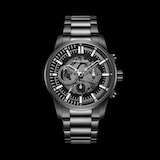
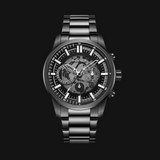
update

Changed region(s): [[0.25, 0.0625, 0.7812, 0.9062], [0.375, 0.875, 0.4062, 0.9062]]

diff --git a/src/partials/sale.html b/src/partials/sale.html
@@ -10,11 +10,11 @@
                     <li class="sale-gallery-item">
                         <!-- <img class="sale-img" src="../img/sale/mob/Watch.png" alt="clock in front"> -->
                         <picture class="sale-first-img">
-                            <source srcset="../img/sale/tab/clock1-tab-new.jpg 1x, ../img/sale/tab/clock1-tab2x.jpeg 2x"
+                            <source srcset="../img/sale/tab-desk/clock1.jpg 1x, ../img/sale/tab-desk/clock1-2x.jpg 2x"
                                 media="(min-width: 1280px)" />
-                            <source srcset="../img/sale/tab/clock1-tab-new.jpg 1x, ../img/sale/tab/clock1-tab2x.jpeg 2x"
+                            <source srcset="../img/sale/tab-desk/clock1.jpg 1x, ../img/sale/tab-desk/clock1-2x.jpg 2x"
                                 media="(min-width: 768px)" />
-                            <source srcset="../img/sale/mob/clock1-mob-new.jpg 1x, ../img/sale/mob/clock1-mob2x.jpeg 2x"
+                            <source srcset="../img/sale/mob/clock1-mob.jpeg 1x, ../img/sale/mob/clock1-mob2x.jpeg 2x"
                                 media="(min-width: 375px)" />
                             <img class="sale-img" src="../img/sale/mob/clock1-mob-new.jpg" alt="clock in front" >
                         </picture>
@@ -22,9 +22,9 @@
                     <li class="sale-gallery-item">
                         <!-- <img class="sale-img" src="../img/sale/mob/clock2-mob.png" alt="clock from the side"> -->
                         <picture>
-                            <source srcset="../img/sale/desk/clock2.jpeg 1x, ../img/sale/desk/clock2-2x.jpeg 2x"
+                            <source srcset="../img/sale/tab-desk/clock2.jpeg 1x, ../img/sale/tab-desk/clock2-2x.jpeg 2x"
                                 media="(min-width: 1280px)" />
-                            <source srcset="../img/sale/tab/clock2-tab.jpeg 1x, ../img/sale/tab/clock2-tab2x.jpeg 2x"
+                            <source srcset="../img/sale/tab-desk/clock2.jpeg 1x, ../img/sale/tab-desk/clock2-2x.jpeg 2x"
                                 media="(min-width: 768px)" />
                             <source srcset="../img/sale/mob/clock2-mob.jpeg 1x, ../img/sale/mob/clock2-mob2x.jpeg 2x"
                                 media="(min-width: 375px)" />
@@ -34,9 +34,9 @@
                     <li class="sale-gallery-item">
                         <!-- <img class="sale-img" src="../img/sale/mob/clock3-mob.png" alt="clock behind"> -->
                         <picture>
-                            <source srcset="../img/sale/desk/clock3.jpeg 1x, ../img/sale/desk/clock3-2x.jpeg 2x"
+                            <source srcset="../img/sale/tab-desk/clock3.jpeg 1x, ../img/sale/tab-desk/clock3-2x.jpeg 2x"
                                 media="(min-width: 1280px)" />
-                            <source srcset="../img/sale/tab/clock3-tab.jpeg 1x, ../img/sale/tab/clock3-tab2x.jpeg 2x"
+                            <source srcset="../img/sale/tab-desk/clock3.jpeg 1x, ../img/sale/tab-desk/clock3-2x.jpeg 2x"
                                 media="(min-width: 768px)" />
                             <source srcset="../img/sale/mob/clock3-mob.jpeg 1x, ../img/sale/mob/clock3-mob2x.jpeg 2x"
                                 media="(min-width: 375px)" />
@@ -46,9 +46,9 @@
                     <li class="sale-gallery-item">
                         <!-- <img class="sale-img" src="../img/sale/mob/clock4-mob.png" alt="clock face"> -->
                         <picture>
-                            <source srcset="../img/sale/desk/clock4.jpeg 1x, ../img/sale/desk/clock4-2x.jpeg 2x"
+                            <source srcset="../img/sale/tab-desk/clock4.jpeg 1x, ../img/sale/tab-desk/clock4-2x.jpeg 2x"
                                 media="(min-width: 1280px)" />
-                            <source srcset="../img/sale/tab/clock4-tab.jpeg 1x, ../img/sale/tab/clock4-tab2x.jpeg 2x"
+                            <source srcset="../img/sale/tab-desk/clock4.jpeg 1x, ../img/sale/tab-desk/clock4-2x.jpeg 2x"
                                 media="(min-width: 768px)" />
                             <source srcset="../img/sale/mob/clock4-mob.jpeg 1x, ../img/sale/mob/clock4-mob2x.jpeg 2x"
                                 media="(min-width: 375px)" />
@@ -58,9 +58,9 @@
                 </ul>
                 <!-- <img class="sale-img-big" src="../img/sale/mob/clockbig-mob.png" alt="big clock"> -->
                 <picture>
-                    <source srcset="../img/sale/tab/bigclock-tab.jpeg 1x, ../img/sale/tab/bigclock-tab2x.jpeg 2x"
+                    <source srcset="../img/sale/tab-desk/bigclock.jpeg 1x, ../img/sale/tab-desk/bigclock2x.jpeg 2x"
                         media="(min-width: 1280px)" />
-                    <source srcset="../img/sale/tab/bigclock-tab.jpeg 1x, ../img/sale/tab/bigclock-tab2x.jpeg 2x"
+                    <source srcset="../img/sale/tab-desk/bigclock.jpeg 1x, ../img/sale/tab-desk/bigclock2x.jpeg 2x"
                         media="(min-width: 768px)" />
                     <source srcset="../img/sale/mob/bigclock-mob.jpeg 1x, ../img/sale/mob/bigclock-mob2x.jpeg 2x"
                         media="(min-width: 375px)" />

diff --git a/src/css/sale.css b/src/css/sale.css
@@ -218,9 +218,29 @@
         line-height: 1.05;
     }
 
+
 }
 
 @media screen and (min-width: 1280px) {
+    .sale-gallery {
+        margin-bottom: 0;
+    }
+
+    /* .sale-content-div {
+        display: flex;
+        gap: 40px;
+    
+        padding-left: 97px;
+        padding-right: 98px;
+    } */
+
+    .sale-description-div {
+        width: 100%;
+    }
+
+}
+/* 
+@media screen and (min-width: 1440px) {
 
     .sale-content-div {
         display: flex;
@@ -230,11 +250,4 @@
         padding-right: 98px;
     }
 
-    .sale-gallery {
-        height: 614px;
-    }
-
-    .sale-description-div {
-        width: 369px;
-    }
-}
+} */
